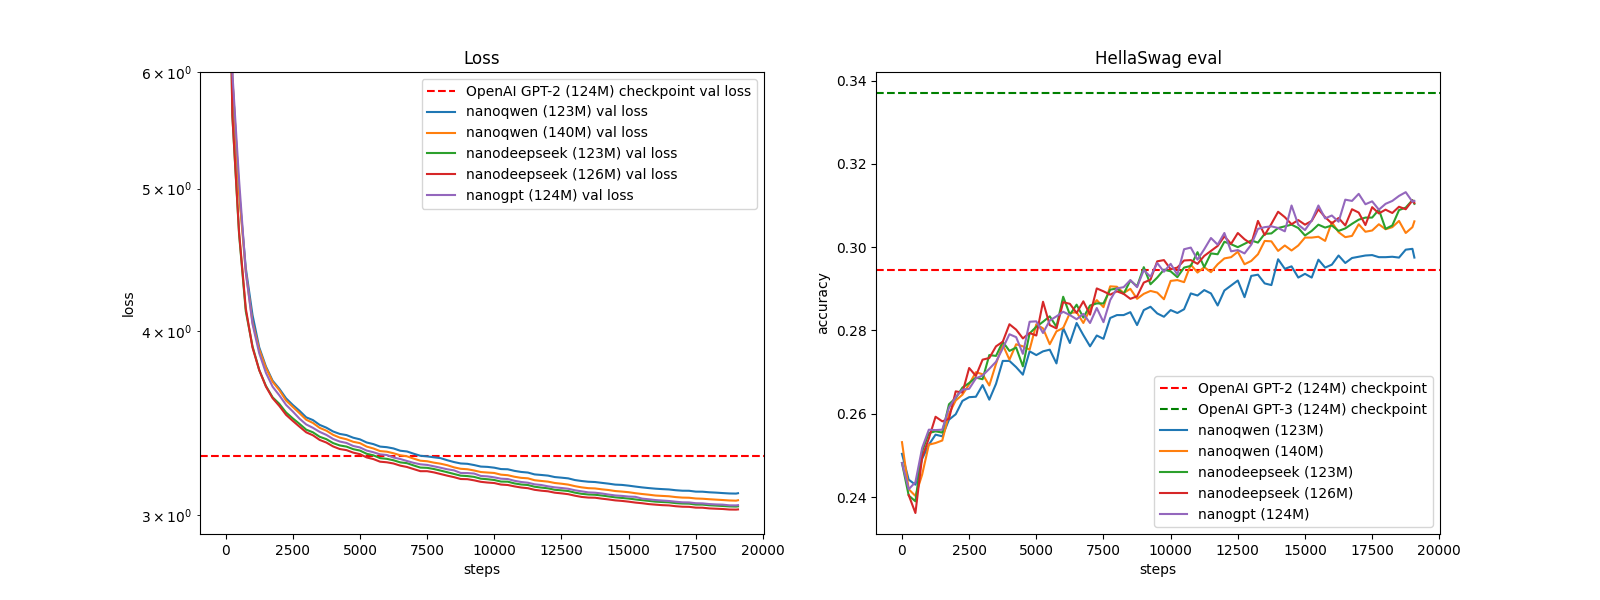
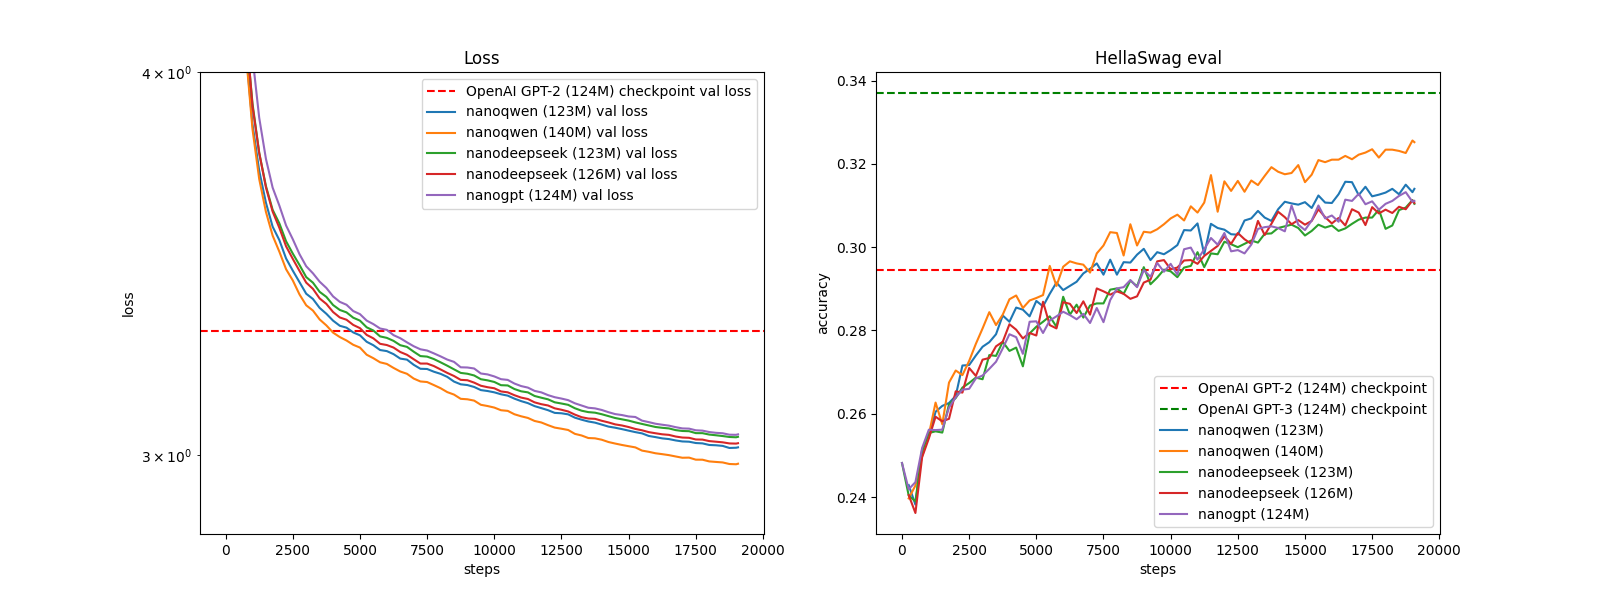
update fig

diff --git a/pipeline.py b/pipeline.py
@@ -5,6 +5,8 @@ import tiktoken
 import time
 import os
 import json
+import warnings
+warnings.filterwarnings('ignore')
 import torch.distributed as dist
 import torch.nn as nn
 from torch.nn import functional as F
@@ -111,7 +113,8 @@ def main(model, config):
     # train from scratch or checkpoint
     resume_from_checkpoint = config.resume_from_checkpoint
     if resume_from_checkpoint:
-        checkpoint_files = [f for f in os.listdir(log_dir) if f.startswith("model_") and f.endswith(".pt")]
+        checkpoint_files = [f for f in os.listdir(log_dir) if f.startswith(f"model_{config.config_path.split('_')[1]}") 
+                            and f.endswith(".pt")]
         assert len(checkpoint_files) > 0, "no checkpoints found"
         latest_checkpoint = sorted(checkpoint_files)[-1] # load the latest checkpoint
         checkpoint_path = os.path.join(log_dir, latest_checkpoint)
@@ -119,6 +122,7 @@ def main(model, config):
         # load model
         model = model(checkpoint['config'], process_rank=ddp_rank)
         total_params = sum(p.numel() for p in model.parameters()) / 1e6
+        log_file = os.path.join(log_dir, f"log_{total_params:.0f}M.txt")
         model.to(device)
         model.load_state_dict(checkpoint['model'])
         # load optimizer
@@ -333,6 +337,7 @@ if __name__ == '__main__':
         config = json.load(f)
     # config[key] -> config.key
     config = SimpleNamespace(**config)
+    config.config_path = args.config_path
     config.model_type = args.model_type
     config.use_compile = args.use_compile
     config.auxiliary_loss = args.auxiliary_loss

diff --git a/visual.py b/visual.py
@@ -87,7 +87,7 @@ for model_type in models:
         plt.ylabel("accuracy")
         plt.legend()
         plt.title("HellaSwag eval")
-        print("Max Hellaswag eval:", max(ys))
+        print("Max Hellaswag eval:", max(ys), "\n")
         plt.savefig(f'log/{model_type}/loss_{param_count}.png')
         plt.clf()
 
@@ -130,7 +130,7 @@ for model_type in models:
         plt.xlabel("steps")
         plt.ylabel("loss")
         plt.yscale('log')
-        plt.ylim(top=6.0)
+        plt.ylim(top=4.0)
         plt.legend()
         plt.title("Loss")
 

diff --git a/README.md b/README.md
@@ -7,7 +7,7 @@ Simple implementation of some open source LLMs, including:
 
 ![fig](fig/loss_all.png)
 
-> Star it if you find this repo useful!
+> **Star it if you find this repo useful!**
 
 # Requirements
 Install the required packages with the following command:
